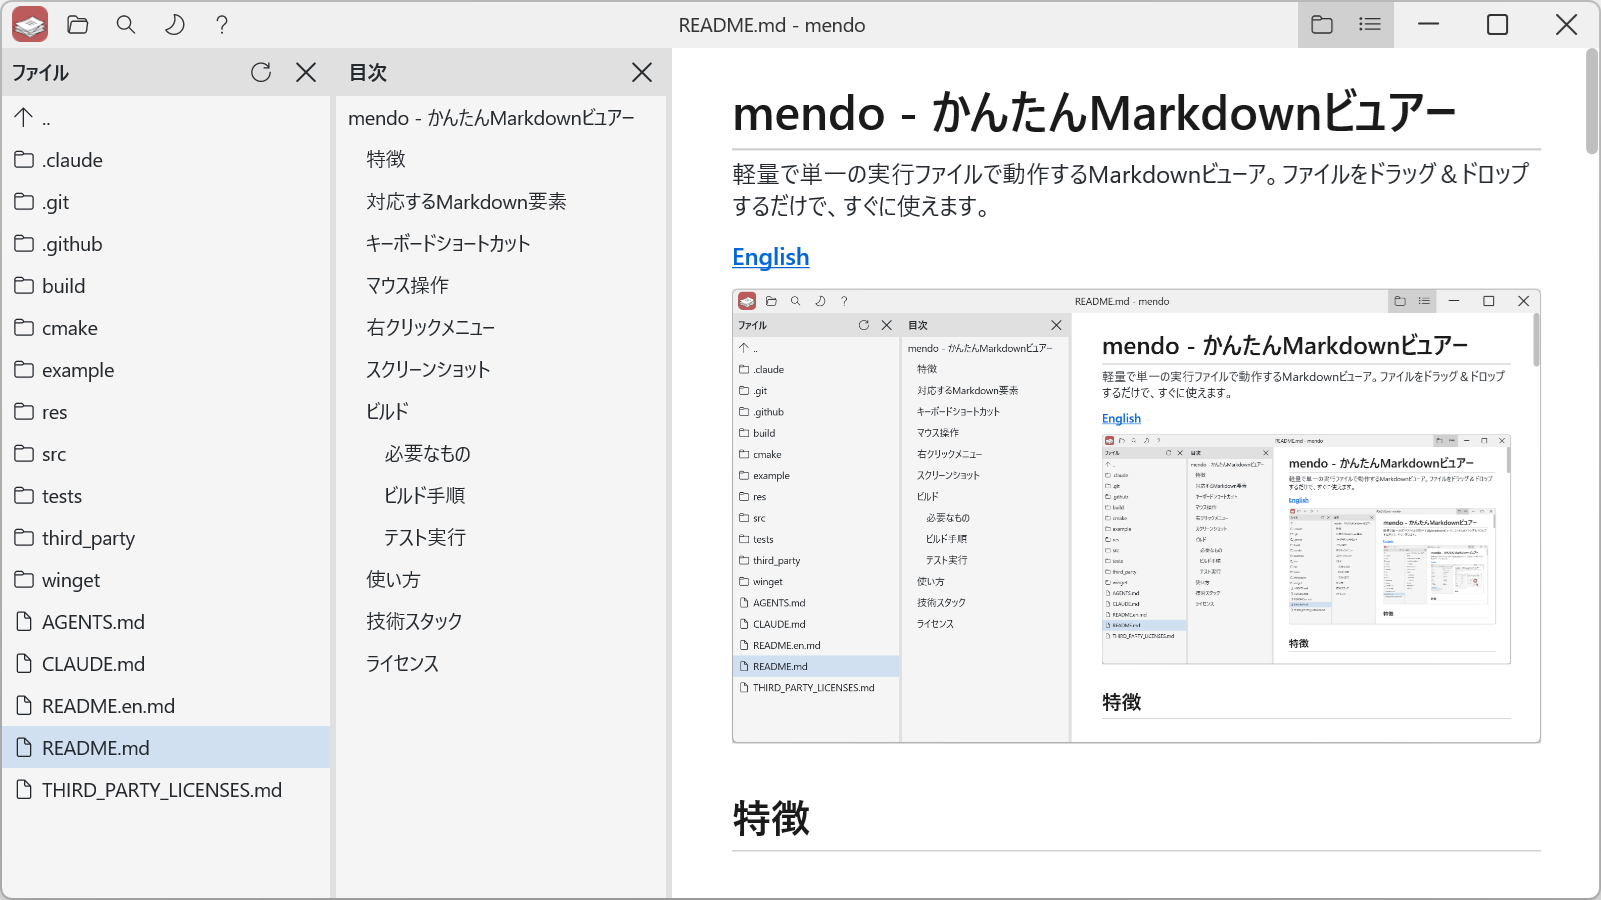
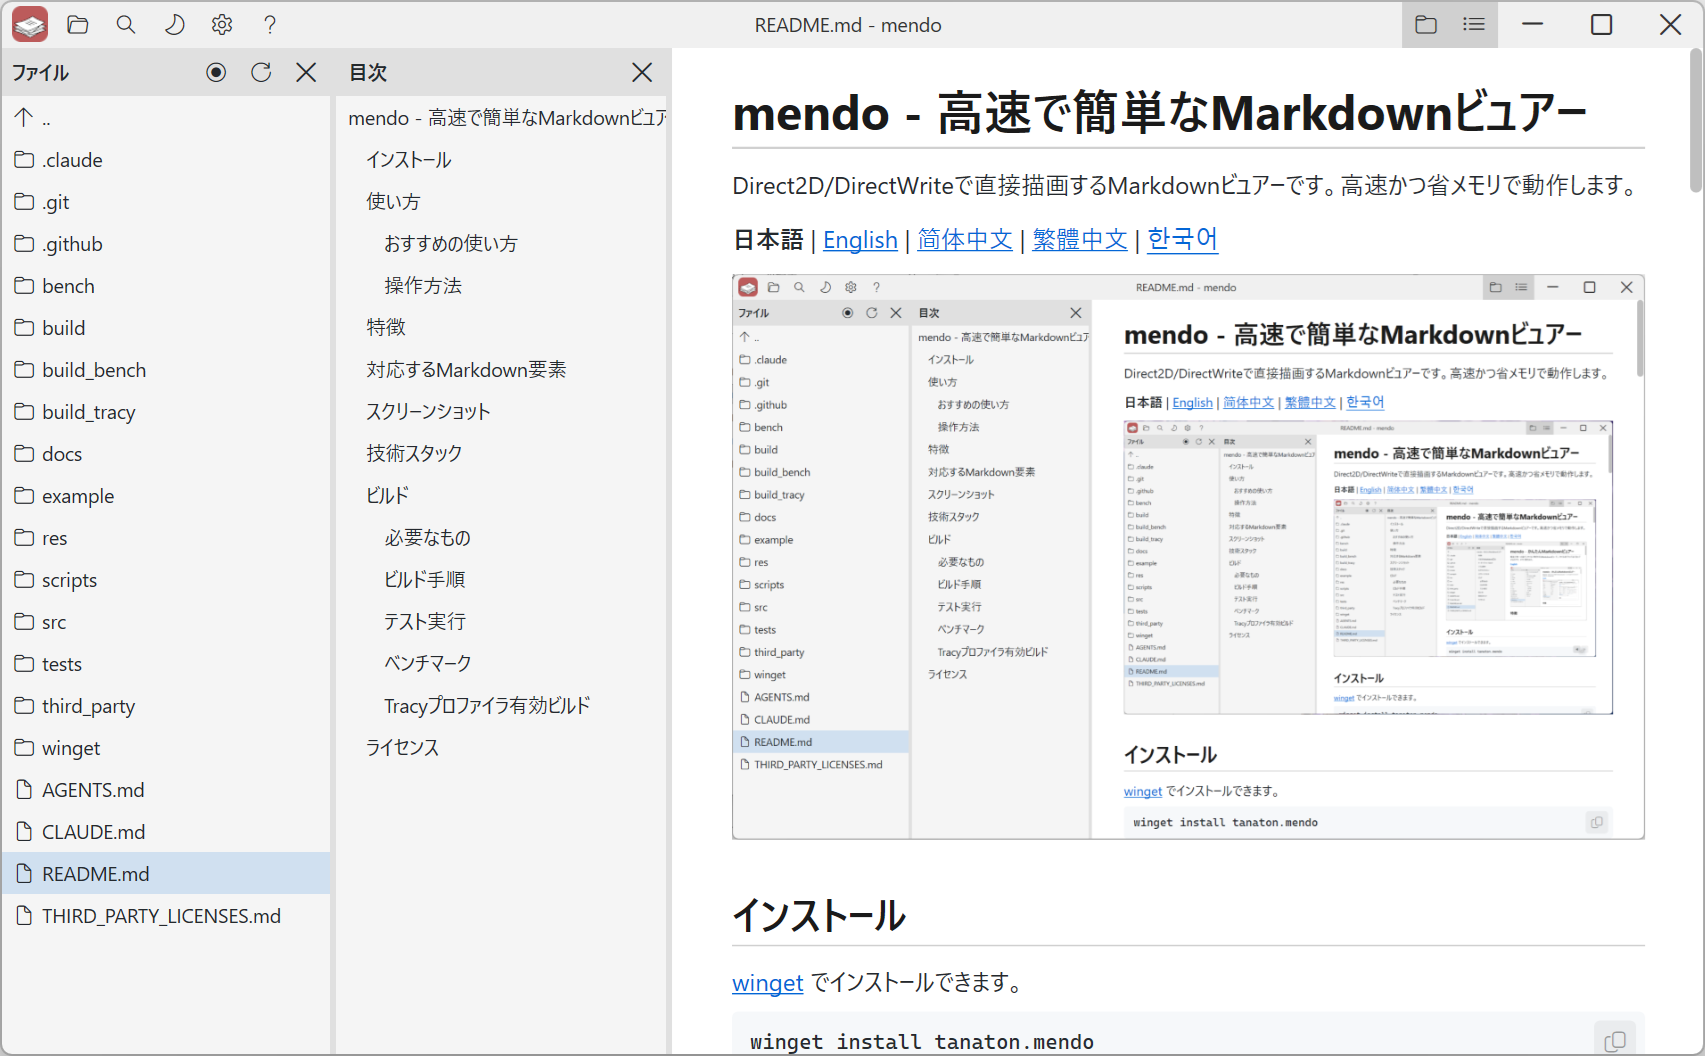
README のスクリーンショットと Mermaid・数式の説明を更新する
- 機能一覧の Mermaid と数式の説明を短くし、数式の項目を「数学記法」として Mermaid の後ろに移す
- 対応表の Mermaid の行は Mermaid 12.1.0 に組み込まれている図に対応と書き、数式の行から `\color` の説明を消す
- 技術スタックの行名を「Mermaidダイアグラム」「数学記法」にする
- スクリーンショットを撮り直し、mendo_light_mermaid.png を mendo_light2.png と mendo_light3.png に替える
- 日本語版の変更を他の 4 言語に反映する。英語版の対応表は他の行に合わせて数式の行も Supported で書く

Claude-Session: https://claude.ai/code/session_01R8cSv8LUuZYHWD2oPpjmrZ

diff --git a/README.md b/README.md
@@ -45,11 +45,11 @@ mendo.exe [ファイルパス | フォルダパス] [--anchor 見出し]
 - **高速起動** — ウインドウ生成とファイル処理を並列化する事で高速起動します。
 - **省メモリ** — Markdownの描画にブラウザを使わず、Direct2D + DirectWrite で直接描画します。
 - **ライブリロード** — 表示中ファイルの変更を検出し、自動で表示を更新します。また、変更位置に自動スクロールします。
-- **Mermaid** — `mermaid` コードブロックを図として表示します。（[pele](https://pele.run/) を [QuickJS-ng](https://github.com/quickjs-ng/quickjs) で動かし、Direct2D で描画）
+- **Mermaid** — ` ```mermaid ` コードブロックを図として表示します。
+- **数学記法** — `$$...$$` のブロック数式、` ```math ` コードブロック、文中の `$...$` を数式として表示します。
 - **オフライン動作** — ネットワーク接続無しで動作します。
 - **シンタックスハイライト** — 複数のプログラミング言語や設定ファイル等のコードブロックを色分け表示します。
 - **画像表示** — ローカルにあるPNG, JPEG, BMP等の画像を表示します。
-- **LaTeX** — `$$...$$` のブロック数式、` ```math ` コードブロック、文中の `$...$` を KaTeX で描画して表示します。（`$$...$$` のみからなる段落と ` ```math ` はブロック数式として中央に描画。選択してコピーすると `$` を除いた LaTeX の文字列になります）
 - **ナビゲーション履歴** — マウスサイドボタン / マウスジェスチャー / タッチパッドスワイプ等でブラウザスタイルの戻る/進むが動作し、スクロール位置も復元します。
 - **ドラッグ&ドロップ** — Markdownファイルをウィンドウにドロップして開けます。
 - **ファイル内検索** — タイトルバーの検索ボタンや `Ctrl+F` でファイル内を検索できます。
@@ -67,8 +67,8 @@ mendo.exe [ファイルパス | フォルダパス] [--anchor 見出し]
 | インラインコード | ✅ |
 | コードブロック (フェンス) | ✅ シンタックスハイライト付き。対応言語: C/C++, C#, Java, Kotlin, Swift, Python, JavaScript, TypeScript, Go, Rust, Zig, Haskell, Clojure, Emacs Lisp, Common Lisp, Scheme/Racket, Lua, Vim script, PHP, Ruby, SQL, HTML, XML, CSS, SCSS, JSON, YAML, TOML, INI, Bash, PowerShell, cmd (バッチ), Dockerfile, Makefile, diff |
 | 画像 (PNG / JPEG / BMP) | ✅ 非同期読み込み |
-| Mermaidダイアグラム | ✅ pele + QuickJS-ng で描画命令にし、Direct2D で描画 |
-| LaTeX数式 (`$...$` / `$$...$$` / ` ```math `) | ✅ 本文の色で描画 (`\color` は無効)。すべてディスプレイ形式で描画し、`$$...$$` のみの段落と ` ```math ` はブロック数式にする |
+| Mermaidダイアグラム | ✅ Mermaid 12.1.0 に組み込まれている図に対応 |
+| 数学記法 (`$...$` / `$$...$$` / ` ```math `) | ✅ すべてディスプレイ形式で描画し、`$$...$$` のみの段落と ` ```math ` はブロック数式にする |
 | GitHub Alerts | ✅ Note / Tip / Important / Warning / Caution |
 | 脚注 (`[^1]`) | ✅ 文書末尾に番号順で表示、参照と定義を相互にリンク |
 | リンク (外部 / ページ内アンカー / ローカルの Markdown) | ✅ |
@@ -80,7 +80,9 @@ mendo.exe [ファイルパス | フォルダパス] [--anchor 見出し]
 
 ## スクリーンショット
 
-![mendoでmermaid](example/image/mendo_light_mermaid.png)
+![mendoのようす2](example/image/mendo_light2.png)
+
+![mendoのようす3](example/image/mendo_light3.png)
 
 ![mendoのダークモード](example/image/mendo_dark_test.png)
 
@@ -93,8 +95,8 @@ mendo.exe [ファイルパス | フォルダパス] [--anchor 見出し]
 | 2D描画 | Direct2D (`ID2D1DeviceContext`) |
 | テキスト描画 | DirectWrite (`IDWriteTextLayout`) |
 | Markdownパーサ | [md4c](https://github.com/mity/md4c) (SAX型コールバック) |
-| ダイアグラム | [pele](https://pele.run/) + [QuickJS-ng](https://github.com/quickjs-ng/quickjs) |
-| 数式 | [KaTeX](https://katex.org/) + [QuickJS-ng](https://github.com/quickjs-ng/quickjs) |
+| Mermaidダイアグラム | [pele](https://pele.run/) + [QuickJS-ng](https://github.com/quickjs-ng/quickjs) |
+| 数学記法 | [KaTeX](https://katex.org/) + [QuickJS-ng](https://github.com/quickjs-ng/quickjs) |
 | テスト | Google Test v1.18.0 |
 | ベンチマーク | Google Benchmark v1.10.0 |
 | ビルド | CMake 4.2+ |

diff --git a/docs/README.ko.md b/docs/README.ko.md
@@ -45,11 +45,11 @@ mendo.exe [파일 경로 | 폴더 경로] [--anchor 제목]
 - **빠른 시작** — 창 생성과 파일 처리를 병렬로 진행하여 빠르게 시작합니다.
 - **적은 메모리 사용** — 브라우저 엔진을 쓰지 않고 Direct2D + DirectWrite로 Markdown을 직접 그립니다.
 - **실시간 다시 불러오기** — 열려 있는 파일의 변경을 감지하면 자동으로 표시를 갱신하고 변경된 위치로 스크롤합니다.
-- **Mermaid** — `mermaid` 코드 블록을 다이어그램으로 표시합니다. ([pele](https://pele.run/)를 [QuickJS-ng](https://github.com/quickjs-ng/quickjs)에서 실행하고 Direct2D로 그림)
+- **Mermaid** — ` ```mermaid ` 코드 블록을 다이어그램으로 표시합니다.
+- **수학 표기** — `$$...$$` 블록 수식, ` ```math ` 코드 블록, 문장 안의 `$...$`를 수식으로 표시합니다.
 - **오프라인 동작** — 네트워크 연결 없이 동작합니다.
 - **구문 강조** — 여러 프로그래밍 언어와 설정 파일 형식 등의 코드 블록을 색으로 구분해 표시합니다.
 - **이미지 표시** — 로컬의 PNG, JPEG, BMP 등의 이미지를 표시합니다.
-- **LaTeX** — `$$...$$` 블록 수식, ` ```math ` 코드 블록, 문장 안의 `$...$` 인라인 수식을 KaTeX로 렌더링합니다. (`$$...$$`로만 이루어진 단락과 ` ```math `는 가운데 정렬된 블록 수식으로 렌더링합니다. 수식을 선택해 복사하면 `$`를 뺀 LaTeX 문자열이 됩니다.)
 - **탐색 기록** — 마우스 측면 버튼, 마우스 제스처, 터치패드 스와이프 등으로 브라우저처럼 뒤로 / 앞으로 이동하며 스크롤 위치도 복원합니다.
 - **끌어서 놓기** — Markdown 파일을 창에 끌어다 놓으면 열립니다.
 - **파일 내 검색** — 제목 표시줄의 검색 버튼이나 `Ctrl+F`로 파일 안을 검색합니다.
@@ -67,8 +67,8 @@ mendo.exe [파일 경로 | 폴더 경로] [--anchor 제목]
 | 인라인 코드 | ✅ |
 | 코드 블록 (펜스) | ✅ 구문 강조 지원. 지원 언어: C/C++, C#, Java, Kotlin, Swift, Python, JavaScript, TypeScript, Go, Rust, Zig, Haskell, Clojure, Emacs Lisp, Common Lisp, Scheme/Racket, Lua, Vim script, PHP, Ruby, SQL, HTML, XML, CSS, SCSS, JSON, YAML, TOML, INI, Bash, PowerShell, cmd (배치), Dockerfile, Makefile, diff |
 | 이미지 (PNG / JPEG / BMP) | ✅ 비동기 불러오기 |
-| Mermaid 다이어그램 | ✅ pele + QuickJS-ng, Direct2D로 그림 |
-| LaTeX 수식 (`$...$` / `$$...$$` / ` ```math `) | ✅ 본문 색으로 렌더링 (`\color`는 무시). 모두 디스플레이 형식으로 렌더링하며, `$$...$$`로만 이루어진 단락과 ` ```math `는 블록 수식 |
+| Mermaid 다이어그램 | ✅ Mermaid 12.1.0에 내장된 다이어그램 지원 |
+| 수학 표기 (`$...$` / `$$...$$` / ` ```math `) | ✅ 모두 디스플레이 형식으로 렌더링하며, `$$...$$`로만 이루어진 단락과 ` ```math `는 블록 수식 |
 | GitHub Alerts | ✅ Note / Tip / Important / Warning / Caution |
 | 각주 (`[^1]`) | ✅ 문서 끝에 번호순으로 표시하며, 참조와 정의를 서로 연결 |
 | 링크 (외부 / 페이지 내 앵커 / 로컬 Markdown 파일) | ✅ |
@@ -80,7 +80,9 @@ mendo.exe [파일 경로 | 폴더 경로] [--anchor 제목]
 
 ## 스크린샷
 
-![mendo에서 Mermaid 표시](../example/image/mendo_light_mermaid.png)
+![mendo 스크린샷 2](../example/image/mendo_light2.png)
+
+![mendo 스크린샷 3](../example/image/mendo_light3.png)
 
 ![mendo 다크 모드](../example/image/mendo_dark_test.png)
 
@@ -93,8 +95,8 @@ mendo.exe [파일 경로 | 폴더 경로] [--anchor 제목]
 | 2D 그리기 | Direct2D (`ID2D1DeviceContext`) |
 | 텍스트 그리기 | DirectWrite (`IDWriteTextLayout`) |
 | Markdown 파서 | [md4c](https://github.com/mity/md4c) (SAX 방식 콜백) |
-| 다이어그램 | [pele](https://pele.run/) + [QuickJS-ng](https://github.com/quickjs-ng/quickjs) |
-| 수식 | [KaTeX](https://katex.org/) + [QuickJS-ng](https://github.com/quickjs-ng/quickjs) |
+| Mermaid 다이어그램 | [pele](https://pele.run/) + [QuickJS-ng](https://github.com/quickjs-ng/quickjs) |
+| 수학 표기 | [KaTeX](https://katex.org/) + [QuickJS-ng](https://github.com/quickjs-ng/quickjs) |
 | 테스트 | Google Test v1.18.0 |
 | 벤치마크 | Google Benchmark v1.10.0 |
 | 빌드 | CMake 4.2+ |

diff --git a/docs/README.en.md b/docs/README.en.md
@@ -45,11 +45,11 @@ Type `mendo` into the File Explorer address bar and press Enter.
 - **Fast startup** — Window creation and file processing run in parallel for a quick launch.
 - **Low memory usage** — Markdown is drawn directly with Direct2D + DirectWrite, without a browser engine.
 - **Live reload** — Detects changes to the open file, updates the view automatically, and scrolls to the changed position.
-- **Mermaid** — Renders `mermaid` code blocks as diagrams ([pele](https://pele.run/) runs on [QuickJS-ng](https://github.com/quickjs-ng/quickjs) and the result is drawn with Direct2D).
+- **Mermaid** — Displays ` ```mermaid ` code blocks as diagrams.
+- **Math** — Displays `$$...$$` block equations, ` ```math ` code blocks, and inline `$...$` as math.
 - **Offline** — Works without a network connection.
 - **Syntax highlighting** — Colors code blocks in many programming languages, configuration file formats, and more.
 - **Images** — Displays local PNG, JPEG, BMP, and other images.
-- **LaTeX** — Renders `$$...$$` block equations, ` ```math ` code blocks, and inline `$...$` math with KaTeX. (A paragraph consisting solely of `$$...$$` and a ` ```math ` block are rendered as centered block equations. Selecting and copying math gives the LaTeX source without the `$` delimiters.)
 - **Navigation history** — Browser-style back/forward via mouse side buttons, mouse gestures, touchpad swipe, and more, with scroll position restored.
 - **Drag & Drop** — Drop a Markdown file onto the window to open it.
 - **In-file search** — Search within the file from the title bar search button or `Ctrl+F`.
@@ -67,8 +67,8 @@ Type `mendo` into the File Explorer address bar and press Enter.
 | Inline code | Supported |
 | Fenced code blocks | Supported (with syntax highlighting). Languages: C/C++, C#, Java, Kotlin, Swift, Python, JavaScript, TypeScript, Go, Rust, Zig, Haskell, Clojure, Emacs Lisp, Common Lisp, Scheme/Racket, Lua, Vim script, PHP, Ruby, SQL, HTML, XML, CSS, SCSS, JSON, YAML, TOML, INI, Bash, PowerShell, cmd (batch), Dockerfile, Makefile, diff |
 | Images (PNG / JPEG / BMP) | Supported (async loading) |
-| Mermaid diagrams | Supported (pele + QuickJS-ng, drawn with Direct2D) |
-| LaTeX math (`$...$` / `$$...$$` / ` ```math `) | ✅ Rendered in the surrounding text color (`\color` has no effect) and always in display style. A paragraph consisting solely of `$$...$$` and a ` ```math ` block are rendered as block equations. |
+| Mermaid diagrams | Supported (diagram types built into Mermaid 12.1.0) |
+| Math (`$...$` / `$$...$$` / ` ```math `) | Supported (always rendered in display style; a paragraph consisting solely of `$$...$$` and a ` ```math ` block are rendered as block equations) |
 | GitHub Alerts | Supported (Note / Tip / Important / Warning / Caution) |
 | Footnotes (`[^1]`) | Supported (listed at the end of the document, with links between references and definitions) |
 | Links (external / page anchors / local Markdown files) | Supported |
@@ -80,7 +80,9 @@ Type `mendo` into the File Explorer address bar and press Enter.
 
 ## Screenshots
 
-![mendo with mermaid](../example/image/mendo_light_mermaid.png)
+![mendo screenshot 2](../example/image/mendo_light2.png)
+
+![mendo screenshot 3](../example/image/mendo_light3.png)
 
 ![mendo dark mode](../example/image/mendo_dark_test.png)
 
@@ -93,7 +95,7 @@ Type `mendo` into the File Explorer address bar and press Enter.
 | 2D rendering | Direct2D (`ID2D1DeviceContext`) |
 | Text rendering | DirectWrite (`IDWriteTextLayout`) |
 | Markdown parser | [md4c](https://github.com/mity/md4c) (SAX-style callbacks) |
-| Diagrams | [pele](https://pele.run/) + [QuickJS-ng](https://github.com/quickjs-ng/quickjs) |
+| Mermaid diagrams | [pele](https://pele.run/) + [QuickJS-ng](https://github.com/quickjs-ng/quickjs) |
 | Math | [KaTeX](https://katex.org/) + [QuickJS-ng](https://github.com/quickjs-ng/quickjs) |
 | Tests | Google Test v1.18.0 |
 | Benchmarks | Google Benchmark v1.10.0 |

diff --git a/docs/README.zh-TW.md b/docs/README.zh-TW.md
@@ -45,11 +45,11 @@ mendo.exe [檔案路徑 | 資料夾路徑] [--anchor 標題]
 - **快速啟動** — 視窗建立與檔案處理平行進行，啟動迅速。
 - **低記憶體用量** — 不使用瀏覽器引擎，透過 Direct2D + DirectWrite 直接繪製 Markdown。
 - **即時重新載入** — 偵測到開啟的檔案有變更時自動更新顯示，並捲動到變更的位置。
-- **Mermaid** — 將 `mermaid` 程式碼區塊顯示為圖表（在 [QuickJS-ng](https://github.com/quickjs-ng/quickjs) 上執行 [pele](https://pele.run/)，以 Direct2D 繪製）。
+- **Mermaid** — 將 ` ```mermaid ` 程式碼區塊顯示為圖表。
+- **數學公式** — 將 `$$...$$` 區塊公式、` ```math ` 程式碼區塊和行內 `$...$` 顯示為公式。
 - **離線運作** — 不需要網路連線即可使用。
 - **語法醒目提示** — 為多種程式語言、設定檔格式等的程式碼區塊上色。
 - **圖片顯示** — 顯示本機的 PNG、JPEG、BMP 等圖片。
-- **LaTeX** — 使用 KaTeX 繪製 `$$...$$` 區塊公式、` ```math ` 程式碼區塊和行內 `$...$` 公式。（只由 `$$...$$` 構成的段落和 ` ```math ` 繪製為置中的區塊公式。選取公式複製時得到去掉 `$` 的 LaTeX 文字。）
 - **瀏覽記錄** — 支援滑鼠側鍵、滑鼠手勢、觸控板滑動等瀏覽器式的上一頁 / 下一頁，並還原捲動位置。
 - **拖放** — 將 Markdown 檔案拖放到視窗中即可開啟。
 - **檔案內搜尋** — 透過標題列的搜尋按鈕或 `Ctrl+F` 在檔案內搜尋。
@@ -67,8 +67,8 @@ mendo.exe [檔案路徑 | 資料夾路徑] [--anchor 標題]
 | 行內程式碼 | ✅ |
 | 程式碼區塊（圍欄） | ✅ 附語法醒目提示。支援的語言：C/C++, C#, Java, Kotlin, Swift, Python, JavaScript, TypeScript, Go, Rust, Zig, Haskell, Clojure, Emacs Lisp, Common Lisp, Scheme/Racket, Lua, Vim script, PHP, Ruby, SQL, HTML, XML, CSS, SCSS, JSON, YAML, TOML, INI, Bash, PowerShell, cmd（批次檔）, Dockerfile, Makefile, diff |
 | 圖片 (PNG / JPEG / BMP) | ✅ 非同步載入 |
-| Mermaid 圖表 | ✅ pele + QuickJS-ng，以 Direct2D 繪製 |
-| LaTeX 公式 (`$...$` / `$$...$$` / ` ```math `) | ✅ 以內文顏色繪製（`\color` 無效）。全部以展示樣式繪製，只由 `$$...$$` 構成的段落和 ` ```math ` 繪製為區塊公式 |
+| Mermaid 圖表 | ✅ 支援 Mermaid 12.1.0 內建的圖表 |
+| 數學公式 (`$...$` / `$$...$$` / ` ```math `) | ✅ 全部以展示樣式繪製，只由 `$$...$$` 構成的段落和 ` ```math ` 繪製為區塊公式 |
 | GitHub Alerts | ✅ Note / Tip / Important / Warning / Caution |
 | 註腳 (`[^1]`) | ✅ 依編號顯示在文件結尾，參照與定義互相連結 |
 | 連結（外部 / 頁內錨點 / 本機 Markdown 檔案） | ✅ |
@@ -80,7 +80,9 @@ mendo.exe [檔案路徑 | 資料夾路徑] [--anchor 標題]
 
 ## 螢幕擷取畫面
 
-![mendo 顯示 Mermaid](../example/image/mendo_light_mermaid.png)
+![mendo 螢幕擷取畫面 2](../example/image/mendo_light2.png)
+
+![mendo 螢幕擷取畫面 3](../example/image/mendo_light3.png)
 
 ![mendo 深色模式](../example/image/mendo_dark_test.png)
 
@@ -93,8 +95,8 @@ mendo.exe [檔案路徑 | 資料夾路徑] [--anchor 標題]
 | 2D 繪製 | Direct2D (`ID2D1DeviceContext`) |
 | 文字繪製 | DirectWrite (`IDWriteTextLayout`) |
 | Markdown 剖析器 | [md4c](https://github.com/mity/md4c)（SAX 式回呼） |
-| 圖表 | [pele](https://pele.run/) + [QuickJS-ng](https://github.com/quickjs-ng/quickjs) |
-| 公式 | [KaTeX](https://katex.org/) + [QuickJS-ng](https://github.com/quickjs-ng/quickjs) |
+| Mermaid 圖表 | [pele](https://pele.run/) + [QuickJS-ng](https://github.com/quickjs-ng/quickjs) |
+| 數學公式 | [KaTeX](https://katex.org/) + [QuickJS-ng](https://github.com/quickjs-ng/quickjs) |
 | 測試 | Google Test v1.18.0 |
 | 基準測試 | Google Benchmark v1.10.0 |
 | 建置 | CMake 4.2+ |

diff --git a/docs/README.zh-CN.md b/docs/README.zh-CN.md
@@ -45,11 +45,11 @@ mendo.exe [文件路径 | 文件夹路径] [--anchor 标题]
 - **快速启动** — 窗口创建与文件处理并行进行，启动迅速。
 - **低内存占用** — 不使用浏览器引擎，通过 Direct2D + DirectWrite 直接绘制 Markdown。
 - **实时重新加载** — 检测到打开的文件发生变化时自动更新显示，并滚动到变化的位置。
-- **Mermaid** — 将 `mermaid` 代码块显示为图表（在 [QuickJS-ng](https://github.com/quickjs-ng/quickjs) 上运行 [pele](https://pele.run/)，用 Direct2D 绘制）。
+- **Mermaid** — 将 ` ```mermaid ` 代码块显示为图表。
+- **数学公式** — 将 `$$...$$` 块级公式、` ```math ` 代码块和行内 `$...$` 显示为公式。
 - **离线运行** — 无需网络连接即可使用。
 - **语法高亮** — 为多种编程语言、配置文件格式等的代码块着色。
 - **图像显示** — 显示本地的 PNG、JPEG、BMP 等图像。
-- **LaTeX** — 使用 KaTeX 渲染 `$$...$$` 块级公式、` ```math ` 代码块和行内 `$...$` 公式。（只由 `$$...$$` 构成的段落和 ` ```math ` 渲染为居中的块级公式。选中公式复制时得到去掉 `$` 的 LaTeX 文本。）
 - **导航历史** — 支持鼠标侧键、鼠标手势、触摸板滑动等浏览器式的后退 / 前进，并恢复滚动位置。
 - **拖放** — 将 Markdown 文件拖放到窗口中即可打开。
 - **文件内搜索** — 通过标题栏的搜索按钮或 `Ctrl+F` 在文件内搜索。
@@ -67,8 +67,8 @@ mendo.exe [文件路径 | 文件夹路径] [--anchor 标题]
 | 行内代码 | ✅ |
 | 代码块（围栏） | ✅ 带语法高亮。支持的语言：C/C++, C#, Java, Kotlin, Swift, Python, JavaScript, TypeScript, Go, Rust, Zig, Haskell, Clojure, Emacs Lisp, Common Lisp, Scheme/Racket, Lua, Vim script, PHP, Ruby, SQL, HTML, XML, CSS, SCSS, JSON, YAML, TOML, INI, Bash, PowerShell, cmd（批处理）, Dockerfile, Makefile, diff |
 | 图像 (PNG / JPEG / BMP) | ✅ 异步加载 |
-| Mermaid 图表 | ✅ pele + QuickJS-ng，用 Direct2D 绘制 |
-| LaTeX 公式 (`$...$` / `$$...$$` / ` ```math `) | ✅ 以正文颜色渲染（`\color` 无效）。全部以展示样式渲染，只由 `$$...$$` 构成的段落和 ` ```math ` 渲染为块级公式 |
+| Mermaid 图表 | ✅ 支持 Mermaid 12.1.0 内置的图表 |
+| 数学公式 (`$...$` / `$$...$$` / ` ```math `) | ✅ 全部以展示样式渲染，只由 `$$...$$` 构成的段落和 ` ```math ` 渲染为块级公式 |
 | GitHub Alerts | ✅ Note / Tip / Important / Warning / Caution |
 | 脚注 (`[^1]`) | ✅ 按编号显示在文档末尾，引用与定义相互链接 |
 | 链接（外部 / 页内锚点 / 本地 Markdown 文件） | ✅ |
@@ -80,7 +80,9 @@ mendo.exe [文件路径 | 文件夹路径] [--anchor 标题]
 
 ## 截图
 
-![mendo 显示 Mermaid](../example/image/mendo_light_mermaid.png)
+![mendo 截图 2](../example/image/mendo_light2.png)
+
+![mendo 截图 3](../example/image/mendo_light3.png)
 
 ![mendo 深色模式](../example/image/mendo_dark_test.png)
 
@@ -93,8 +95,8 @@ mendo.exe [文件路径 | 文件夹路径] [--anchor 标题]
 | 2D 绘制 | Direct2D (`ID2D1DeviceContext`) |
 | 文本绘制 | DirectWrite (`IDWriteTextLayout`) |
 | Markdown 解析器 | [md4c](https://github.com/mity/md4c)（SAX 式回调） |
-| 图表 | [pele](https://pele.run/) + [QuickJS-ng](https://github.com/quickjs-ng/quickjs) |
-| 公式 | [KaTeX](https://katex.org/) + [QuickJS-ng](https://github.com/quickjs-ng/quickjs) |
+| Mermaid 图表 | [pele](https://pele.run/) + [QuickJS-ng](https://github.com/quickjs-ng/quickjs) |
+| 数学公式 | [KaTeX](https://katex.org/) + [QuickJS-ng](https://github.com/quickjs-ng/quickjs) |
 | 测试 | Google Test v1.18.0 |
 | 基准测试 | Google Benchmark v1.10.0 |
 | 构建 | CMake 4.2+ |
